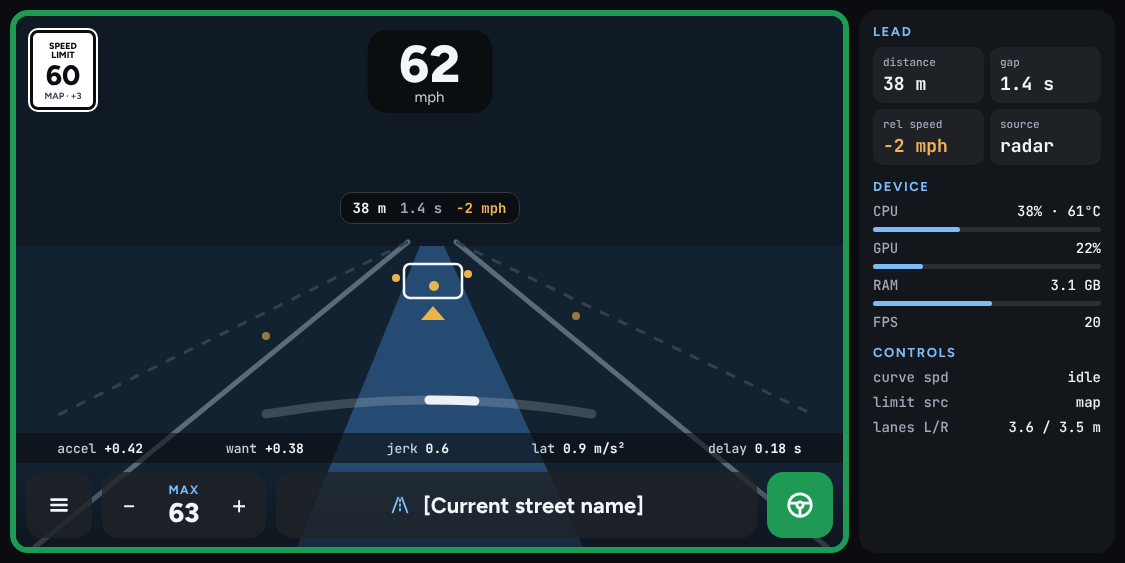
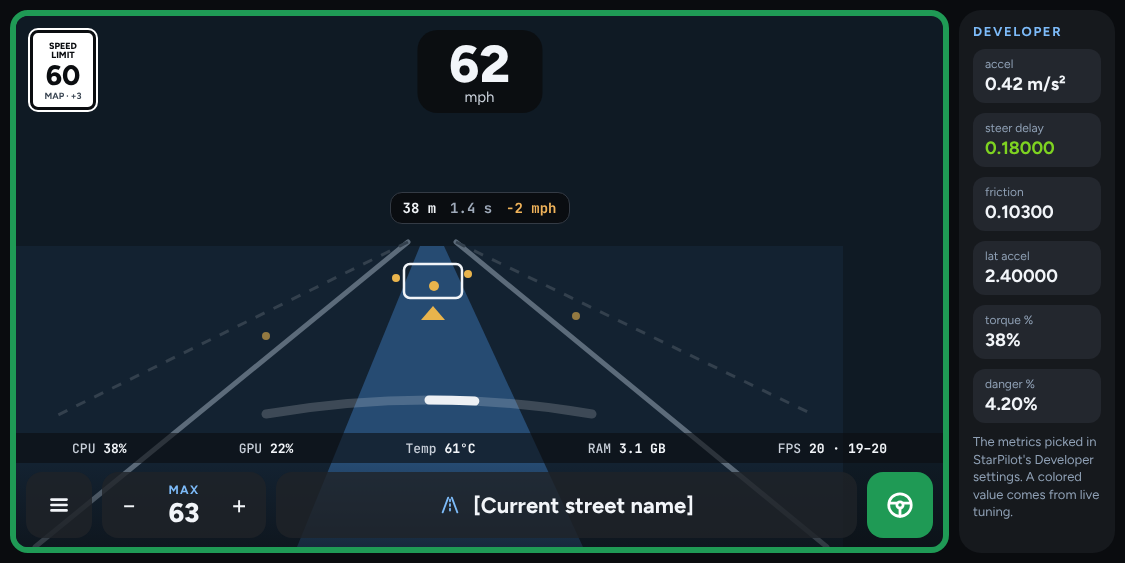
Essentials: Developer View onroad in our style
StarPilot's developer sidebar keeps its chosen metrics, calculations and
tuning colors, drawn as our tiles; the device stats follow StarPilot's
toggles as a strip above the bar, with the status chip lifted over it.
main.py creates the sidebar through screens.developer_sidebar(), so
TANDEM_ONROAD=0 brings StarPilot's back. The Developer View mock now shows
the metrics StarPilot actually has.

Claude-Session: https://claude.ai/code/session_01R4pPc2hcx88Dbjjec1p8WC

diff --git a/selfdrive/ui/tandem/design/onroaddev.html b/selfdrive/ui/tandem/design/onroaddev.html
@@ -48,7 +48,7 @@ a{color:#7DBBF9}a:hover{color:#A9D3FB}
       <span style="font-size: 15px; color: #C9D0DA;">mph</span>
     </div>
     <div style="position: absolute; left: 0; right: 0; bottom: 84px; height: 30px; background: #0B0D1099; display: flex; align-items: center; justify-content: space-around; font-family: 'JetBrains Mono', monospace; font-size: 13px; color: #C9D0DA;">
-      <span>accel <b style="color: #F2F5F9;">+0.42</b></span><span>want <b style="color: #F2F5F9;">+0.38</b></span><span>jerk <b style="color: #F2F5F9;">0.6</b></span><span>lat <b style="color: #F2F5F9;">0.9 m/s²</b></span><span>delay <b style="color: #F2F5F9;">0.18 s</b></span>
+      <span>CPU <b style="color: #F2F5F9;">38%</b></span><span>GPU <b style="color: #F2F5F9;">22%</b></span><span>Temp <b style="color: #F2F5F9;">61°C</b></span><span>RAM <b style="color: #F2F5F9;">3.1 GB</b></span><span>FPS <b style="color: #F2F5F9;">20 · 19–20</b></span>
     </div>
     <div style="position: absolute; left: 0; right: 0; bottom: 0; height: 84px; background: linear-gradient(to bottom, #0B0D1000, #0B0D108C); display: flex; align-items: center; gap: 10px; padding: 0 10px;">
       <button type="button" aria-label="Menu" style="width: 66px; height: 66px; border-radius: 16px; border: 0; background: #1F2328CC; display: flex; align-items: center; justify-content: center;"><svg width="26" height="26" viewBox="0 0 24 24" fill="none" stroke="#F2F5F9" stroke-width="2.4" stroke-linecap="round" aria-hidden="true"><path d="M5 7h14M5 12h14M5 17h14"></path></svg></button>
@@ -67,30 +67,15 @@ a{color:#7DBBF9}a:hover{color:#A9D3FB}
       <button type="button" aria-label="Disengage" style="width: 66px; height: 66px; border-radius: 16px; border: 0; background: #1F9A55; display: flex; align-items: center; justify-content: center;"><svg width="30" height="30" viewBox="0 0 24 24" fill="none" stroke="#FFFFFF" stroke-width="2.2" stroke-linecap="round" stroke-linejoin="round" aria-hidden="true"><circle cx="12" cy="12" r="9"></circle><circle cx="12" cy="12" r="2.5"></circle><path d="M3.5 10.5h6M14.5 10.5h6M12 14.5V21"></path></svg></button>
     </div>
   </div>
-  <aside aria-label="Developer sidebar" style="width: 256px; flex-shrink: 0; box-sizing: border-box; background: #13161A; border-radius: 18px; padding: 14px; display: flex; flex-direction: column; gap: 8px; font-family: 'JetBrains Mono', monospace;">
-    <span style="font-family: Figtree, sans-serif; font-size: 13px; font-weight: 700; letter-spacing: 1.6px; color: #7DBBF9;">LEAD</span>
-    <div style="display: grid; grid-template-columns: repeat(2, minmax(0, 1fr)); gap: 6px;">
-      <div style="background: #1E2227; border-radius: 10px; padding: 8px 10px; display: flex; flex-direction: column; gap: 3px;"><span style="font-size: 11px; color: #9FAABA;">distance</span><span style="font-size: 18px; font-weight: 700;">38 m</span></div>
-      <div style="background: #1E2227; border-radius: 10px; padding: 8px 10px; display: flex; flex-direction: column; gap: 3px;"><span style="font-size: 11px; color: #9FAABA;">gap</span><span style="font-size: 18px; font-weight: 700;">1.4 s</span></div>
-      <div style="background: #1E2227; border-radius: 10px; padding: 8px 10px; display: flex; flex-direction: column; gap: 3px;"><span style="font-size: 11px; color: #9FAABA;">rel speed</span><span style="font-size: 18px; font-weight: 700; color: #F0B35A;">−2 mph</span></div>
-      <div style="background: #1E2227; border-radius: 10px; padding: 8px 10px; display: flex; flex-direction: column; gap: 3px;"><span style="font-size: 11px; color: #9FAABA;">source</span><span style="font-size: 18px; font-weight: 700;">radar</span></div>
-    </div>
-    <span style="font-family: Figtree, sans-serif; font-size: 13px; font-weight: 700; letter-spacing: 1.6px; color: #7DBBF9; margin-top: 6px;">DEVICE</span>
-    <div style="display: flex; flex-direction: column; gap: 7px; font-size: 14px;">
-      <div style="display: flex; justify-content: space-between;"><span style="color: #9FAABA;">CPU</span><span>38% · 61°C</span></div>
-      <div style="height: 5px; border-radius: 3px; background: #2A2F36;"><div style="width: 38%; height: 5px; border-radius: 3px; background: #7DBBF9;"></div></div>
-      <div style="display: flex; justify-content: space-between;"><span style="color: #9FAABA;">GPU</span><span>22%</span></div>
-      <div style="height: 5px; border-radius: 3px; background: #2A2F36;"><div style="width: 22%; height: 5px; border-radius: 3px; background: #7DBBF9;"></div></div>
-      <div style="display: flex; justify-content: space-between;"><span style="color: #9FAABA;">RAM</span><span>3.1 GB</span></div>
-      <div style="height: 5px; border-radius: 3px; background: #2A2F36;"><div style="width: 52%; height: 5px; border-radius: 3px; background: #7DBBF9;"></div></div>
-      <div style="display: flex; justify-content: space-between;"><span style="color: #9FAABA;">FPS</span><span>20</span></div>
-    </div>
-    <span style="font-family: Figtree, sans-serif; font-size: 13px; font-weight: 700; letter-spacing: 1.6px; color: #7DBBF9; margin-top: 6px;">CONTROLS</span>
-    <div style="display: flex; flex-direction: column; gap: 7px; font-size: 14px;">
-      <div style="display: flex; justify-content: space-between;"><span style="color: #9FAABA;">curve spd</span><span>idle</span></div>
-      <div style="display: flex; justify-content: space-between;"><span style="color: #9FAABA;">limit src</span><span>map</span></div>
-      <div style="display: flex; justify-content: space-between;"><span style="color: #9FAABA;">lanes L/R</span><span>3.6 / 3.5 m</span></div>
-    </div>
+  <aside aria-label="Developer sidebar" style="width: 156px; flex-shrink: 0; box-sizing: border-box; background: #16191D; border-radius: 22px; padding: 14px; display: flex; flex-direction: column; gap: 10px;">
+    <span style="font-size: 13px; font-weight: 700; letter-spacing: 1.6px; color: #7DBBF9;">DEVELOPER</span>
+    <div style="background: #23272E; border-radius: 12px; padding: 8px 12px; display: flex; flex-direction: column; gap: 2px;"><span style="font-size: 12px; color: #8FA0B5;">accel</span><span style="font-size: 18px; font-weight: 700; color: #F2F5F9;">0.42 m/s²</span></div>
+    <div style="background: #23272E; border-radius: 12px; padding: 8px 12px; display: flex; flex-direction: column; gap: 2px;"><span style="font-size: 12px; color: #8FA0B5;">steer delay</span><span style="font-size: 18px; font-weight: 700; color: #7ED321;">0.18000</span></div>
+    <div style="background: #23272E; border-radius: 12px; padding: 8px 12px; display: flex; flex-direction: column; gap: 2px;"><span style="font-size: 12px; color: #8FA0B5;">friction</span><span style="font-size: 18px; font-weight: 700; color: #F2F5F9;">0.10300</span></div>
+    <div style="background: #23272E; border-radius: 12px; padding: 8px 12px; display: flex; flex-direction: column; gap: 2px;"><span style="font-size: 12px; color: #8FA0B5;">lat accel</span><span style="font-size: 18px; font-weight: 700; color: #F2F5F9;">2.40000</span></div>
+    <div style="background: #23272E; border-radius: 12px; padding: 8px 12px; display: flex; flex-direction: column; gap: 2px;"><span style="font-size: 12px; color: #8FA0B5;">torque %</span><span style="font-size: 18px; font-weight: 700; color: #F2F5F9;">38%</span></div>
+    <div style="background: #23272E; border-radius: 12px; padding: 8px 12px; display: flex; flex-direction: column; gap: 2px;"><span style="font-size: 12px; color: #8FA0B5;">danger %</span><span style="font-size: 18px; font-weight: 700; color: #F2F5F9;">4.20%</span></div>
+    <span style="font-size: 13px; color: #8FA0B5; line-height: 1.35;">The metrics picked in StarPilot's Developer settings. A colored value comes from live tuning.</span>
   </aside>
 </div>
 

diff --git a/selfdrive/ui/tandem/onroad/developer.py b/selfdrive/ui/tandem/onroad/developer.py
@@ -1,0 +1,124 @@
+"""Developer View onroad (design/onroaddev.html): StarPilot's developer sidebar and device stats in our style.
+
+The sidebar keeps StarPilot's DeveloperSidebar: which metrics the driver picked, how each is computed, and its tuning
+colors. We draw them as tiles on our panel. The device stats (CPU, GPU, temperature, memory, FPS) follow StarPilot's
+toggles too, as a strip above the bar instead of text in the border.
+"""
+from __future__ import annotations
+
+import pyray as rl
+
+from openpilot.selfdrive.ui.tandem import draw, tokens as T
+from openpilot.selfdrive.ui.tandem.layout import FILL, column, inset, row
+
+TILE_H = T.px(64)
+STRIP_H = T.px(34)
+STRIP_FILL = rl.Color(0x0B, 0x0D, 0x10, 200)
+
+
+def draw_metric_tiles(rect: rl.Rectangle, metrics: list[tuple[str, str, rl.Color | None]]) -> None:
+  """The sidebar: a panel of tiles (two to a row when there is room), each a small label over its value. A value keeps StarPilot's color when
+  it marks a tuning source (live or changed); otherwise it's our text color."""
+  draw.fill(rect, T.BG)
+  panel = inset(rect, x=T.px(10), y=T.px(10))
+  draw.fill(panel, T.SURFACE_2, T.RADIUS_PANEL)
+  body = inset(panel, x=T.px(14), y=T.px(14))
+  caption, grid = column(body, [draw.line_height(T.SIZE_CAPTION), FILL], T.px(10))
+  draw.caption(caption, "Developer", T.ACCENT_TEXT)
+  per_row = 2 if grid.width >= T.px(260) else 1   # StarPilot's sidebar is narrow (300 px): one tile per row there
+  y = grid.y
+  for i in range(0, len(metrics), per_row):
+    group = metrics[i:i + per_row]
+    cells = row(rl.Rectangle(grid.x, y, grid.width, TILE_H), [FILL] * per_row, T.px(10))
+    for (label, value, color), cell in zip(group, cells, strict=False):
+      draw.fill(cell, T.CONTROL, T.px(12))
+      text = inset(cell, x=T.px(12), y=T.px(8))
+      top, bottom = column(text, [draw.line_height(T.font_px(12)), FILL], T.px(2))
+      draw.text(top, draw.fit(label.lower(), T.font_px(12), T.FONT, top.width), T.font_px(12), T.TEXT_MUTED)
+      draw.text(bottom, draw.fit(value or "—", T.font_px(18), T.FONT_BOLD, bottom.width), T.font_px(18), color or T.TEXT, T.FONT_BOLD)
+    y += TILE_H + T.px(10)
+    if y + TILE_H > grid.y + grid.height:
+      break
+
+
+def draw_strip(rect: rl.Rectangle, parts: list[tuple[str, str]]) -> None:
+  """Device stats in one dark band: each a muted label and a bold value, spread evenly."""
+  draw.fill(rect, STRIP_FILL)
+  if not parts:
+    return
+  for (label, value), cell in zip(parts, row(inset(rect, x=T.px(20)), [FILL] * len(parts), T.px(12)), strict=True):
+    lw = draw.text_width(label + " ", T.font_px(14))
+    vw = draw.text_width(value, T.font_px(14), T.FONT_BOLD)
+    x = cell.x + (cell.width - lw - vw) / 2
+    draw.text(rl.Rectangle(x, cell.y, lw, cell.height), label + " ", T.font_px(14), T.TEXT_TERTIARY)
+    draw.text(rl.Rectangle(x + lw, cell.y, vw, cell.height), value, T.font_px(14), T.TEXT, T.FONT_BOLD)
+
+
+class DeviceStats:
+  """StarPilot's developer metrics line, as label and value pairs: the same toggles, the same FPS min/max/average."""
+
+  def __init__(self):
+    self._min_fps, self._max_fps, self._avg_fps = 99.0, 0.0, 0.0
+
+  def parts(self, params) -> list[tuple[str, str]]:
+    from openpilot.selfdrive.ui.ui_state import ui_state
+    toggles = ui_state.starpilot_toggles
+    debug_mode = bool(toggles.get("debug_mode", params.get_bool("DebugMode")))
+    developer = (bool(toggles.get("developer_ui", params.get_bool("DeveloperUI"))) and params.get_bool("DeveloperMetrics")) or debug_mode
+
+    def on(toggle_key: str, param_key: str, debug_override: bool = False) -> bool:
+      if debug_mode and debug_override:
+        return True
+      if developer and toggle_key in toggles:
+        return bool(toggles.get(toggle_key))
+      return bool(developer and params.get_bool(param_key))
+
+    show = {"fps": on("show_fps", "FPSCounter", True), "cpu": on("cpu_metrics", "ShowCPU", True), "gpu": on("gpu_metrics", "ShowGPU"),
+            "temp": on("numerical_temp", "NumericalTemp", True), "ram": on("memory_metrics", "ShowMemoryUsage", True)}
+    if not any(show.values()):
+      return []
+    fps = rl.get_fps()
+    if fps > 0:
+      self._min_fps, self._max_fps = min(self._min_fps, fps), max(self._max_fps, fps)
+      self._avg_fps = fps if self._avg_fps == 0.0 else self._avg_fps + (fps - self._avg_fps) / 300.0
+    sm = ui_state.sm
+    state = sm["deviceState"] if sm.valid.get("deviceState", False) else None
+    cpus = list(state.cpuUsagePercent) if state else []
+    out = []
+    if show["cpu"]:
+      out.append(("CPU", f"{int(sum(cpus) / len(cpus)) if cpus else 0}%"))
+    if show["gpu"]:
+      out.append(("GPU", f"{int(state.gpuUsagePercent) if state else 0}%"))
+    if show["temp"]:
+      out.append(("Temp", f"{int(state.maxTempC) if state else 0}°C"))
+    if show["ram"]:
+      mem = int(state.memoryUsagePercent) if state else 0
+      out.append(("RAM", f"{8.0 * mem / 100.0:.1f} GB"))
+    if show["fps"]:
+      out.append(("FPS", f"{round(fps)} · {round(self._min_fps)}–{round(self._max_fps)}"))
+    return out
+
+
+def developer_sidebar():
+  """StarPilot's developer sidebar, drawn as our tiles. Made on the device only (it reads the car's messages)."""
+  from openpilot.selfdrive.ui.onroad.starpilot.developer_sidebar import DeveloperSidebar
+
+  class EssentialsDeveloperSidebar(DeveloperSidebar):
+    def render(self, sidebar_rect: rl.Rectangle):
+      if not self._visible or not self._active_ids:
+        return
+      default = self._metric_color
+      metrics = []
+      for metric_id in self._active_ids:
+        if metric_id not in self._metrics:
+          continue
+        label, value = self._metrics[metric_id]
+        if not value:                      # the model name metric: its name is the value
+          label, value = "Model", label
+        color = self._metric_colors.get(metric_id)
+        metrics.append((label, value, color if color is not None and (color.r, color.g, color.b) != (default.r, default.g, default.b)
+                        else None))
+      draw_metric_tiles(sidebar_rect, metrics)
+
+  return EssentialsDeveloperSidebar()
+

diff --git a/selfdrive/ui/tandem/onroad/view.py b/selfdrive/ui/tandem/onroad/view.py
@@ -30,7 +30,8 @@ from openpilot.system.ui.lib.application import MousePos
 from openpilot.selfdrive.ui.onroad.starpilot.navigation_card import NavigationCardRenderer
 from openpilot.selfdrive.ui.tandem import tokens as T
 from openpilot.selfdrive.ui.tandem.onroad import alerts
-from openpilot.selfdrive.ui.tandem.onroad.layers import (AT_LIMIT, BAR_ZONE, LIMIT_BORDER_COLOR, LIMIT_LANE_COLOR, ArcState, BarState,
+from openpilot.selfdrive.ui.tandem.onroad.developer import STRIP_H, DeviceStats, draw_strip
+from openpilot.selfdrive.ui.tandem.onroad.layers import (AT_LIMIT, BAR_HEIGHT, BAR_MARGIN, BAR_ZONE, LIMIT_BORDER_COLOR, LIMIT_LANE_COLOR, ArcState, BarState,
                                                          Headroom, HeadroomArc, HelpSteer, LimitCard, LimitOffer, OnroadBar, StatusChip,
                                                          dm_tile, draw_driver_monitor, draw_speed, draw_speed_limit,
                                                          draw_turn_card, sign_tile, TURN_BELOW_SIGN, TURN_CARD_TOP)
@@ -154,6 +155,8 @@ class EssentialsOnroadView(StarPilotOnroadView):
     self._stopped_timer_widget = _NoStoppedTimer()
     self.alert_renderer = EssentialsAlertRenderer()
     self._layers_visible = False
+    self._dev_stats = DeviceStats()
+    self._dev_parts: list[tuple[str, str]] = []
     self._nav_sm = None
 
   # Upstream pieces replaced here
@@ -199,6 +202,10 @@ class EssentialsOnroadView(StarPilotOnroadView):
     if not (ui_state.started and self._draw_hud_controls) or self.alert_renderer.will_render()[0] is not None:
       return
     draw_driver_monitor(dm_tile(self._content_rect), dm._fade_filter.x, attentive, dm.is_active)
+
+  def _render_developer_metrics(self):
+    """StarPilot's device stats, gathered here and drawn as our strip above the bar (see _render)."""
+    self._dev_parts = self._dev_stats.parts(self._params)
 
   def _render_road_name(self):
     pass
@@ -270,9 +277,14 @@ class EssentialsOnroadView(StarPilotOnroadView):
     self._render_driver_monitor()
     if not self._layers_visible:
       return
-    self._chip_view.render(self._content_rect)
-    self._limit.render(self._content_rect)
-    self._bar.render(self._content_rect)
+    c = self._content_rect
+    lift = 0.0
+    if self._dev_parts:   # Developer View's device stats, just above the bar; the chip moves up over them
+      lift = STRIP_H + T.px(6)
+      draw_strip(rl.Rectangle(c.x, c.y + c.height - BAR_MARGIN - BAR_HEIGHT - lift, c.width, STRIP_H), self._dev_parts)
+    self._chip_view.render(rl.Rectangle(c.x, c.y, c.width, c.height - lift))
+    self._limit.render(c)
+    self._bar.render(c)
 
   def _handle_mouse_press(self, mouse_pos: MousePos):
     # Taps on our layers stay ours; anywhere else keeps upstream's behavior (toggling the sidebar).

diff --git a/selfdrive/ui/layouts/main.py b/selfdrive/ui/layouts/main.py
@@ -5,12 +5,11 @@ import cereal.messaging as messaging
 from openpilot.system.hardware import PC
 from openpilot.system.ui.lib.application import gui_app
 from openpilot.selfdrive.ui.layouts.sidebar import SIDEBAR_WIDTH
-from openpilot.selfdrive.ui.onroad.starpilot.developer_sidebar import DeveloperSidebar
 from openpilot.selfdrive.ui.layouts.settings.settings import PanelType
 from openpilot.selfdrive.ui.ui_state import device, ui_state
 from openpilot.system.ui.widgets import Widget
 from openpilot.selfdrive.ui.layouts.onboarding import OnboardingWindow
-from openpilot.selfdrive.ui.tandem.screens import MAIN_SIDEBAR_WIDTH, home_layout, onroad_view, settings_window, sidebar
+from openpilot.selfdrive.ui.tandem.screens import MAIN_SIDEBAR_WIDTH, developer_sidebar, home_layout, onroad_view, settings_window, sidebar
 
 
 class MainState(IntEnum):
@@ -26,7 +25,7 @@ class MainLayout(Widget):
     self._pm = messaging.PubMaster(['bookmarkButton'])
 
     self._sidebar = sidebar()
-    self._dev_sidebar = DeveloperSidebar()
+    self._dev_sidebar = developer_sidebar()
     self._current_mode = MainState.HOME
     self._prev_onroad = False
 

diff --git a/selfdrive/ui/tandem/screens.py b/selfdrive/ui/tandem/screens.py
@@ -34,6 +34,15 @@ def onroad_view() -> Widget:
   return EssentialsOnroadView()
 
 
+def developer_sidebar():
+  """StarPilot's developer sidebar (Developer View), drawn as our tiles; TANDEM_ONROAD=0 brings back StarPilot's."""
+  if not _enabled("TANDEM_ONROAD"):
+    from openpilot.selfdrive.ui.onroad.starpilot.developer_sidebar import DeveloperSidebar
+    return DeveloperSidebar()
+  from openpilot.selfdrive.ui.tandem.onroad.developer import developer_sidebar as essentials_developer_sidebar
+  return essentials_developer_sidebar()
+
+
 def sidebar() -> Widget:
   if not _enabled("TANDEM_SIDEBAR"):
     from openpilot.selfdrive.ui.layouts.sidebar import Sidebar

diff --git a/selfdrive/ui/tandem/README.md b/selfdrive/ui/tandem/README.md
@@ -16,6 +16,8 @@ Tandem is this fork of StarPilot. Its design language is **Essentials**: fewer c
 | `assets/` | `boot_logo.jpg`, Tandem's boot logo (2160×1080, from `boot_logo.html`). Choosing it copies the file into StarPilot's boot logos folder, where StarPilot's theme manager installs it like any other logo; the Essentials defaults choose it. |
 | `blocks.py` | Layout blocks for the mocks' card layouts: `Stack` (with `SPACER`s or a growing item), `Card`, `Columns`, `Grid`, `Label`, `ValueLine`, `IconTitle`, `InfoCard`, `Field`, `Icon`, `Inline`, `Sized`, `Surface` |
 | `overlays.py` | `Sheet` (slides up), `Dialog` (confirm; `Tone.DANGER` gives a destructive button), `Toast` |
+| Settings › Device › Developer (`settings/developer.py`) | openpilot's Developer panel in our rows: ADB, SSH, GitHub SSH keys (upstream's fetcher), joystick debug, alpha longitudinal (with our warning, only where offered) and UI debug. |
+| More for your car (`settings/vehicle.py`) | StarPilot's car-specific options for the detected car, on its params and handlers; restarts and panda flashing ask first in our dialogs. |
 | `overlays.py` dialogs over upstream actions | Restart, Power Off, Recalibrate and the driver monitoring reset ask in our `Dialog`, then run upstream's action (the confirm-only prompts are run with their dialog caught and answered, so upstream's checks still apply). Software's Release Channel and Uninstall (upstream's three steps), What's new and the Bluetooth sound test use our sheets and dialogs too. How It Works stays upstream's training guide: its steps are pre-drawn images. |
 | `keyboard.py` | `EssentialsKeyboard`: upstream's `Keyboard` (typing, shift and caps, the 123 and #+= layers, backspace repeat, password masking, minimum length) drawn as `design/keyboard.html`, with a named action key. Used by every text entry our screens open: Wi-Fi and hotspot passwords, APN, Report a Problem, the startup message and the Galaxy password. Destination search holds it in the page as a `KeyPad`. |
 
@@ -138,12 +140,13 @@ These are reached from a row or button, never as a tab:
   - The list: Home and Work tiles (a tile with nothing saved searches for one and sets it), Add favorite, other favorites, recents with a star, and the active route with End route. Offline maps ready shows when maps are downloaded.
   - Search: the keyboard sits in the page; results update 0.6 s after you stop typing (from 3 letters), and Search lists them all without the keyboard.
   - The preview: the place, what Essentials does on the way, and Favorite / Home / Work toggles, then Start. There is no map or arrival estimate before starting: StarPilot only routes once a destination is set. Renaming a favorite isn't offered.
+- **Home's alerts and update** (`home_alerts.py`, `design/homealerts.html`, `homeupdate.html`): upstream's OffroadAlert and UpdateAlert still read the params and own Snooze update, Acknowledge excessive actuation and Reboot and update; we draw alert cards by severity (with short titles for the alerts we know) and the release notes, and Home no longer shows upstream's header.
 - **Home** (`home.py`): upstream's HomeLayout with new home content: readiness and the current setup, Where to? (`destinations.py`), and update status. The home cards use the full content height without the legacy header or its tap targets. Offroad alerts and update details retain upstream's header and navigation.
 - **Sidebar** (`sidebar.py`): subclasses upstream's Sidebar, which still tracks device state and owns the callbacks. It has a Settings button and a status card with Network, comma connect, Temperature, Vehicle and Maps, each with a colored dot. Onroad it adds Save a clip (upstream's flag button), and it shows a recording indicator while cabin audio is recorded.
 - **First-run setup** (`setup.py`): three questions, or Use defaults. Either way it applies the Essentials defaults first. Home shows it once, as soon as onboarding has closed; a marker file beside the params folder records that it's done, so no new param key is needed.
 
 What these don't do yet:
-- **Developer View metrics** keep upstream's layout.
+- **Developer View** (`onroad/developer.py`, `design/onroaddev.html`): StarPilot's developer sidebar keeps its chosen metrics, their calculations and tuning colors, drawn as our tiles (one column at its 300 px width); its device stats (CPU, GPU, temperature, RAM, FPS) follow StarPilot's toggles as a strip above the bar, and the status chip moves up over it. `main.py` creates the sidebar through `screens.developer_sidebar()`.
 
 ## Third-party
 

diff --git a/selfdrive/ui/tandem/design/README.md b/selfdrive/ui/tandem/design/README.md
@@ -30,6 +30,7 @@ Open any `.html` file in this folder in a browser. Each screen is 1125×563, the
 | Keyboard | [keyboard.html](keyboard.html) |
 | Progress, blocked, done, empty | [feedback.html](feedback.html) |
 | Parked home | [home.html](home.html) |
+| Home: alerts, update ready | [homealerts.html](homealerts.html), [homeupdate.html](homeupdate.html) |
 | First-run setup | [setup.html](setup.html) |
 | Driving Model | [model.html](model.html) |
 | System | [system.html](system.html) |
